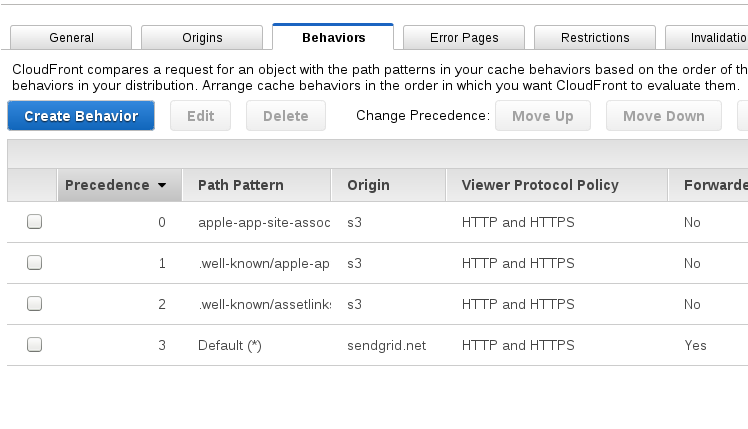
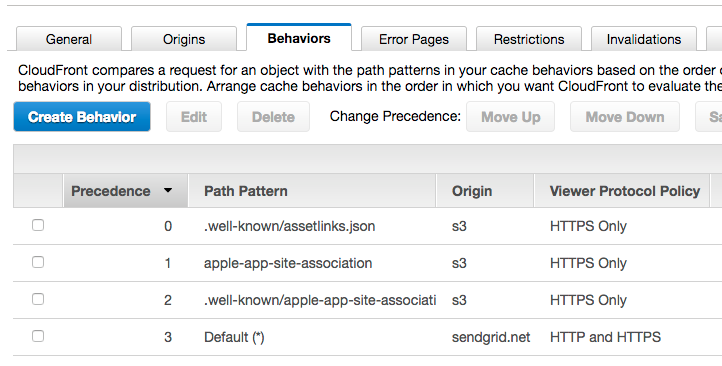
updating some of the cloudfront setup instructions

diff --git a/source/Classroom/Build/Add_Content/universal_links.md b/source/Classroom/Build/Add_Content/universal_links.md
@@ -141,7 +141,7 @@ After creating your iOS "apple-app-site-association" file and/or your Android "d
 
 2. Upload your "apple-app-site-association" file into the root of the new S3 bucket
 
-3. Under **Permissions** on the uploaded file, add a permission for **Everyone** to **Open/Download**, then hit **Save**
+3. Under **Permissions** on the uploaded file, add a permission for **Everyone** to **Open/Download** (or **Read** in the new S3 UI), then hit **Save**
 
 4. Under **Metadata** on the uploaded file, change the **Content-Type** value to **application/json**, then hit **Save**
 
@@ -150,11 +150,11 @@ After creating your iOS "apple-app-site-association" file and/or your Android "d
 
 6. Inside of the ".well-known" folder, uplaod the same "apple-app-site-association" file as in step 2
 
-7. As above, add a permission for **Everyone** to **Open/Download** and change the Content-Type to “application/json”
+7. As above, add a permission for **Everyone** to **Open/Download** (or **Read** in the new S3 UI) and change the Content-Type to “application/json”
 
 8. Inside of the “.well-known” folder, upload your “assetlinks.json”
 
-9. Repeat step 7 for your "assetlinks.json" file: add a permission for **Everyone** to **Open/Download** and change the Content-Type to “application/json”
+9. Repeat step 7 for your "assetlinks.json" file: add a permission for **Everyone** to **Open/Download** (or **Read** in the new S3 UI) and change the Content-Type to “application/json”
 
 10. Navigate to the **AWS Certificate Manager**
 
@@ -181,7 +181,7 @@ After creating your iOS "apple-app-site-association" file and/or your Android "d
 
     ![]({{root_url}}/images/universal_links_4.png)
 
-    * **Forward Headers:** All
+    * **Forward Headers:** Forward all, cache based on all
     * **Forward Query Strings:** Yes
 18. Under the **Distribution Settings** section, set the fields as follows:
 
@@ -219,9 +219,9 @@ After creating your iOS "apple-app-site-association" file and/or your Android "d
 
 27. Create a third behavior with the following details
 
-    **Path Pattern:** .well-known/assetlinks.json
-    **Origin:** s3
-    **Viewer Protocol Policy:** HTTPS Only
+    * **Path Pattern:** .well-known/assetlinks.json
+    * **Origin:** s3
+    * **Viewer Protocol Policy:** HTTPS Only
 28. Hit **Create**
 
 29. Ensure that the **Behaviors** are sorted so that the **Default** is the last onNewIntent
@@ -235,6 +235,7 @@ After creating your iOS "apple-app-site-association" file and/or your Android "d
     * https://links.example.com/.well-known/apple-app-site-association
     * https://links.example.com/.well-known/assetlinks.json
     * https://links.example.com/wf/click?upn=
+
 32. Verify behavior using [https://branch.io/resources/universal-links/](https://branch.io/resources/universal-links/)
 
 {% anchor h2 %}
